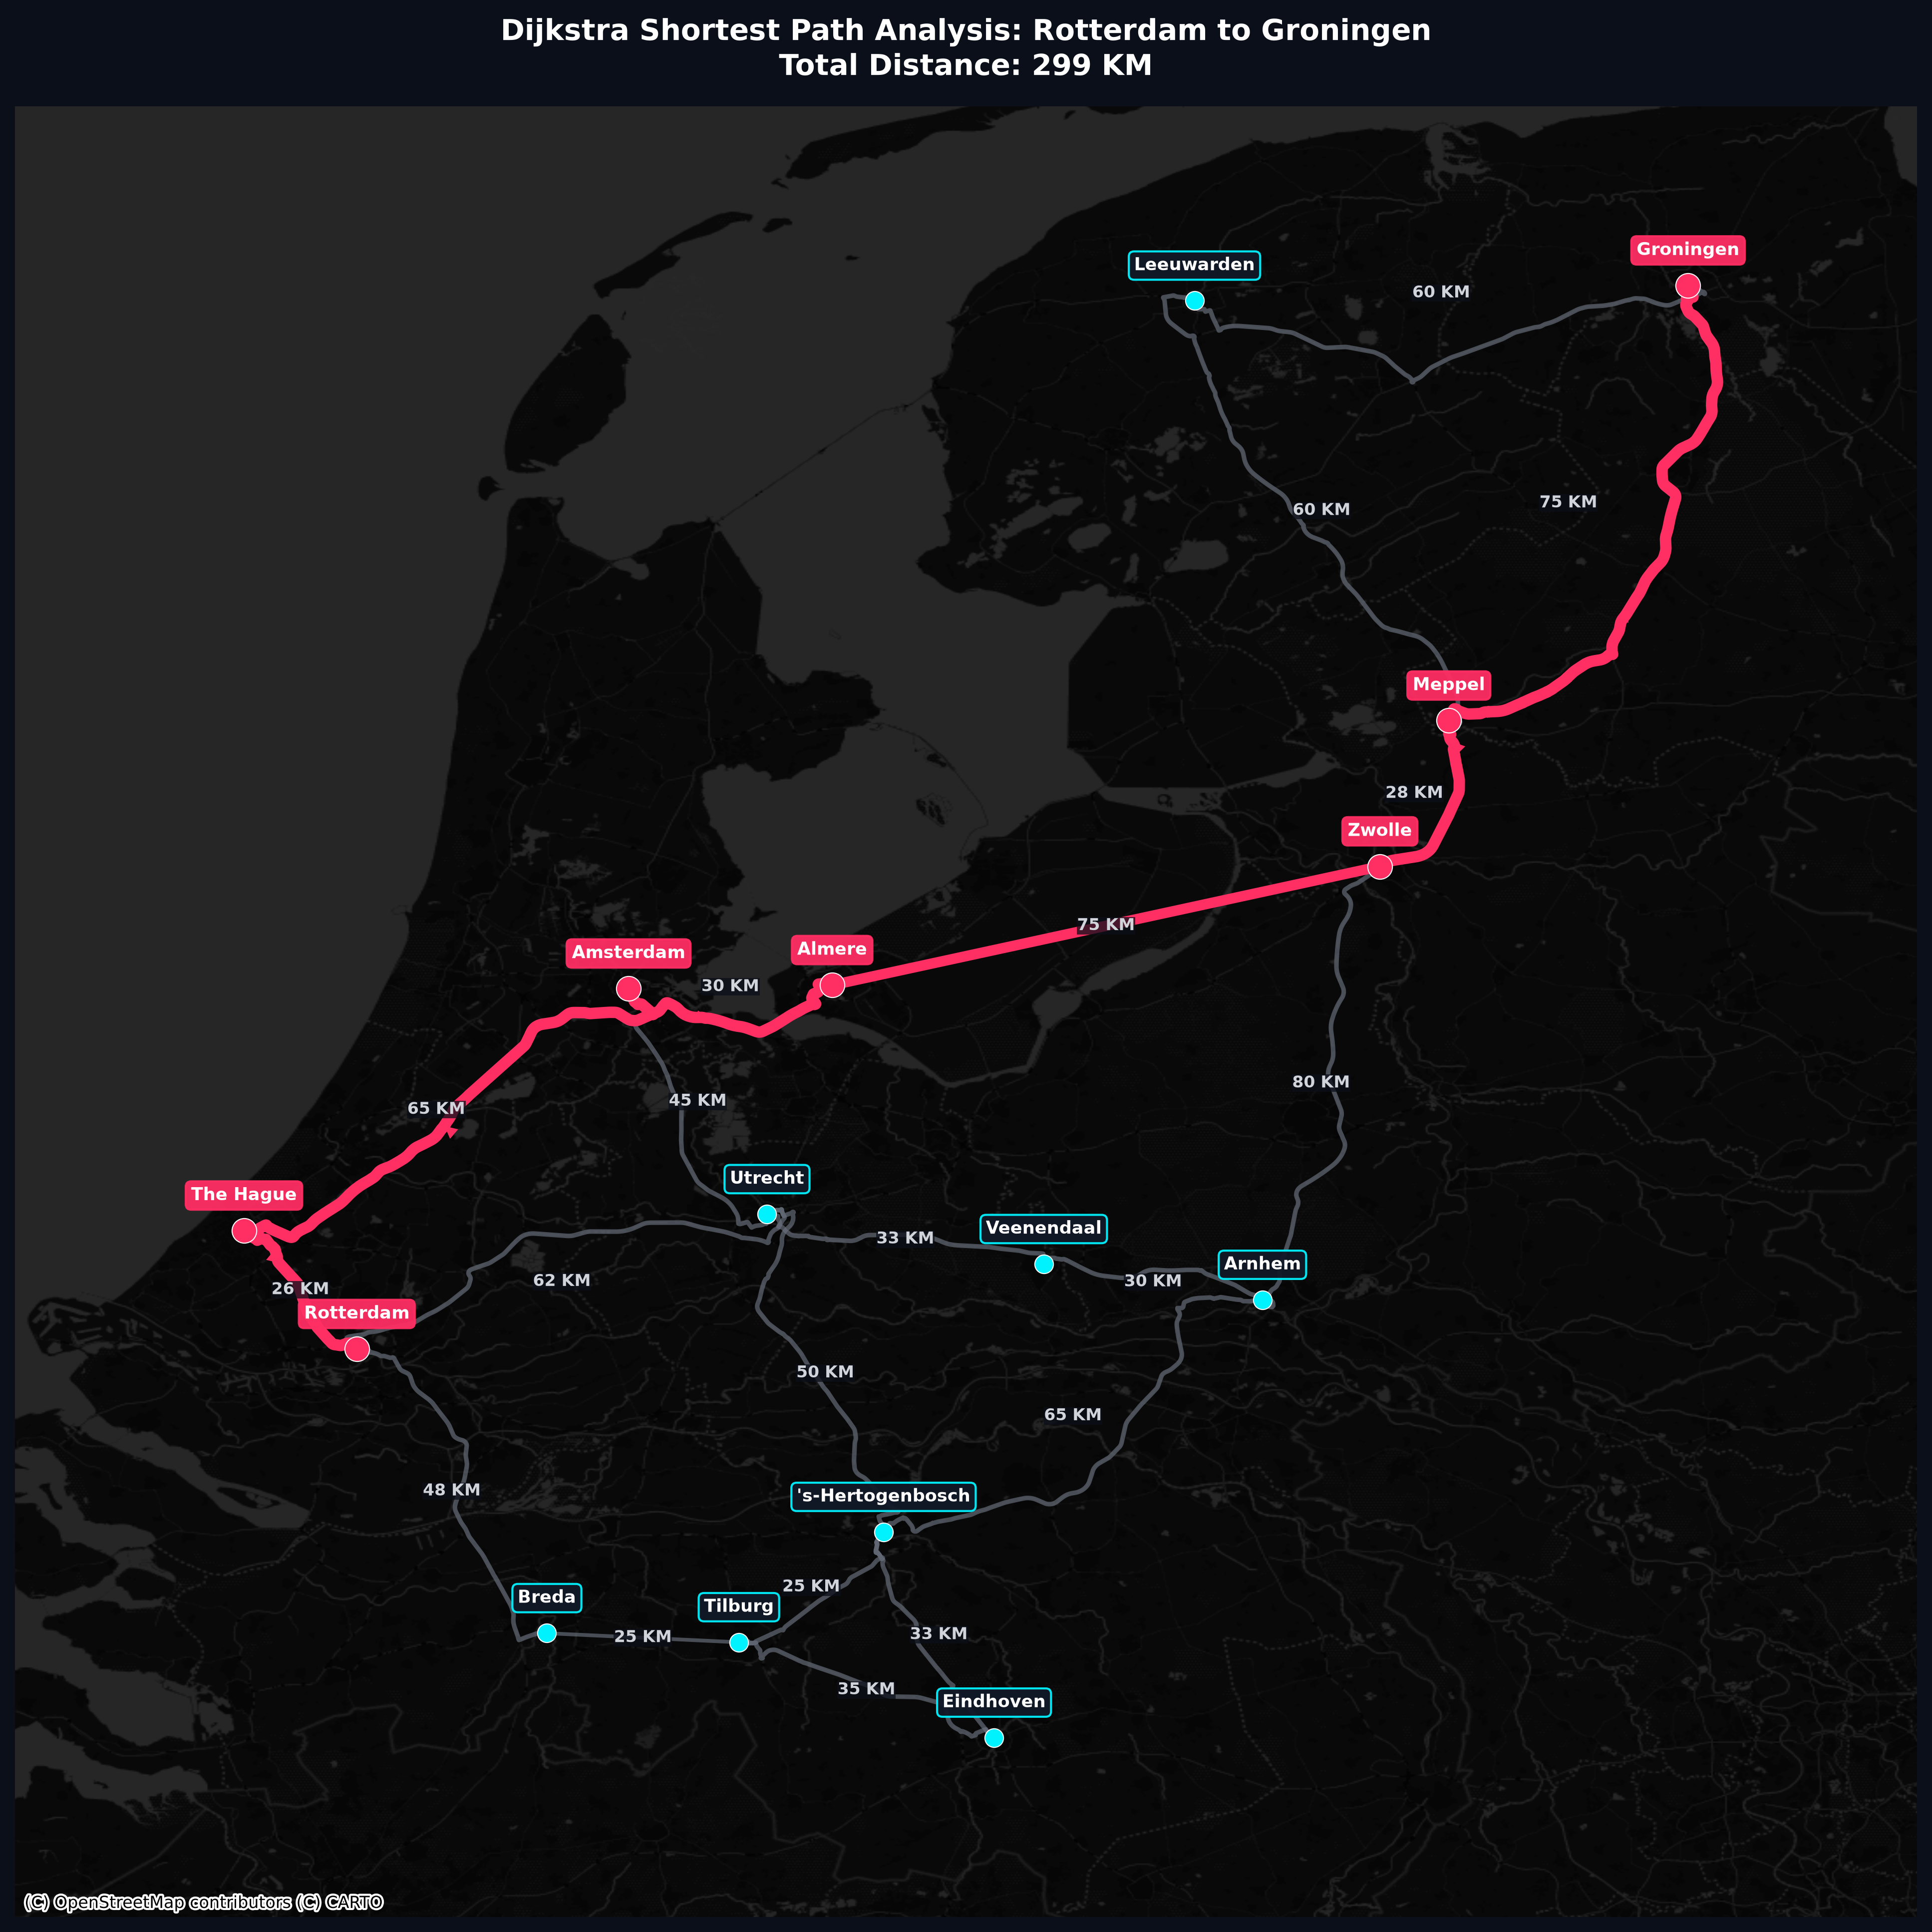
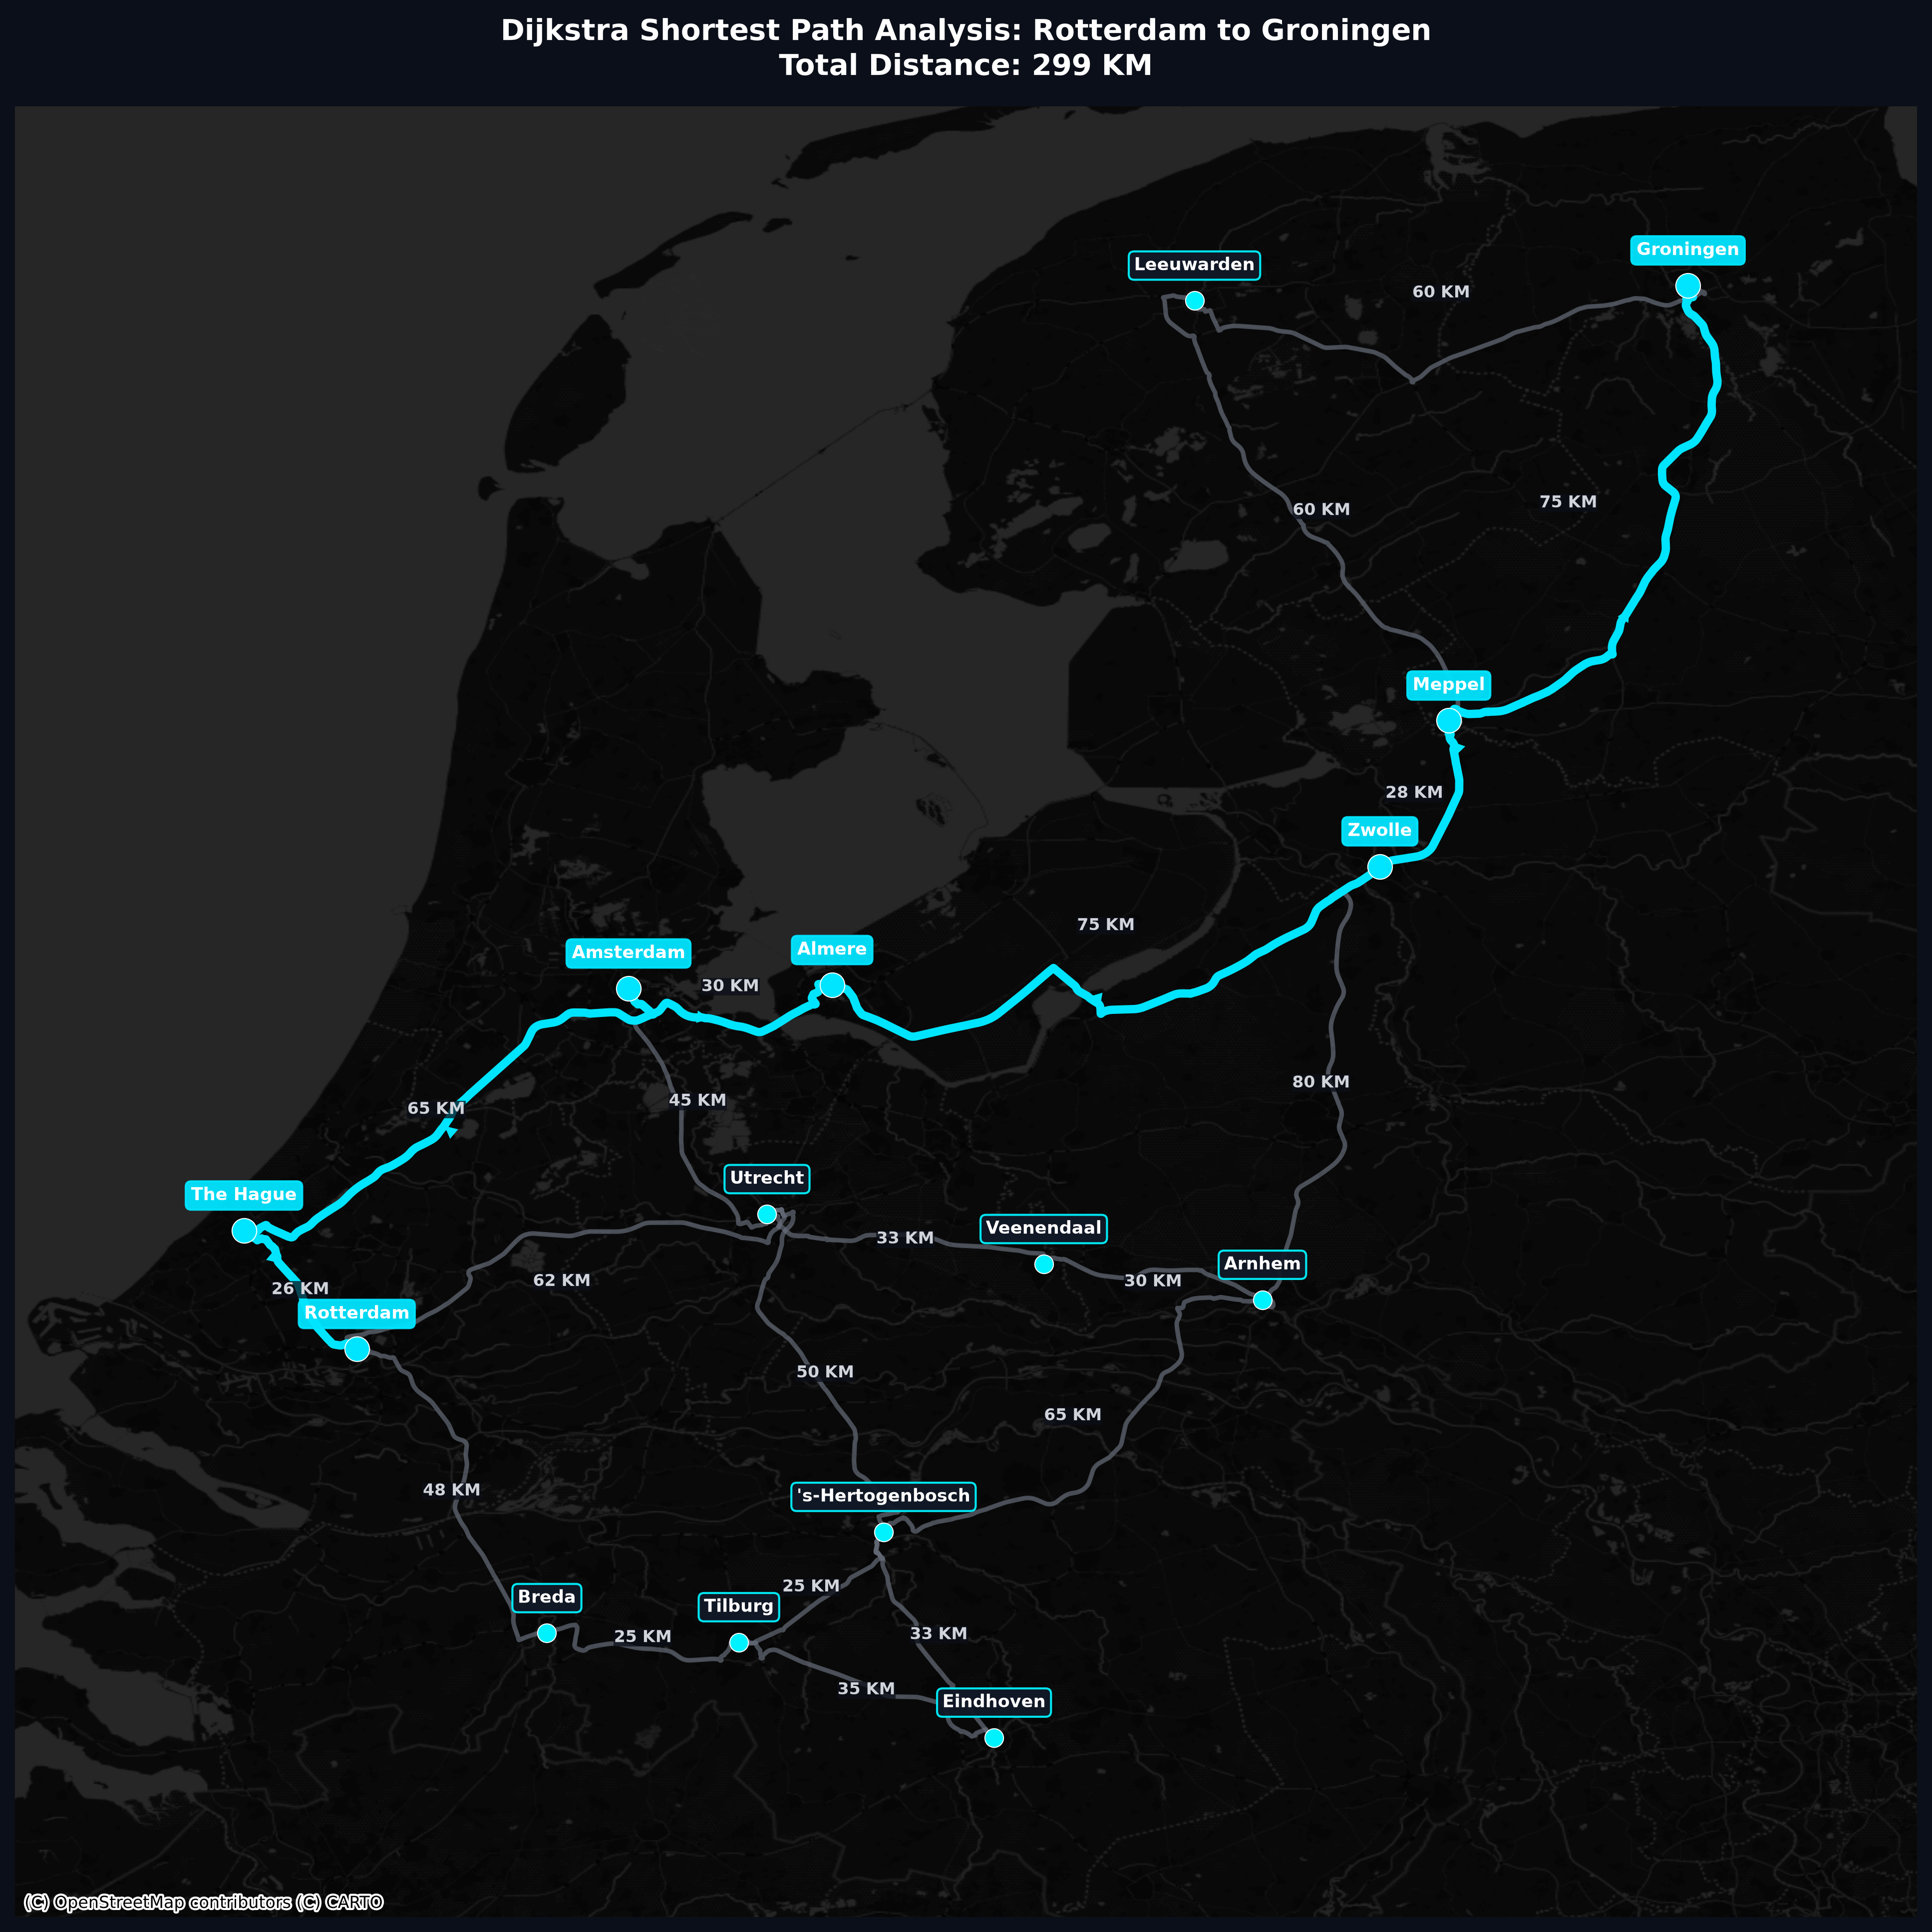
Refactor color scheme in slover.py for path visualization
- Updated path line color from '#ff2e63' to '#00e5ff' for better contrast.
- Adjusted line widths for path edges to enhance visual clarity.
- Changed node color for those on the path to '#00e5ff' to maintain consistency.
- Modified annotation and bounding box colors to match the new color scheme.

diff --git a/slover.py b/slover.py
@@ -72,18 +72,18 @@ for u, v in solved_path_edges:
     cache_key = f"{u}->{v}"
     if cache_key in road_geometries_cache:
         pts = road_geometries_cache[cache_key]
-        ax.plot([p[0] for p in pts], [p[1] for p in pts], color='#ff2e63', linewidth=5.5, alpha=1.0, zorder=2)
+        ax.plot([p[0] for p in pts], [p[1] for p in pts], color='#00e5ff', linewidth=4.0, alpha=1.0, zorder=2)
         mid_idx = len(pts) // 2
         ax.annotate('', xy=(pts[mid_idx+1][0], pts[mid_idx+1][1]), 
                     xytext=(pts[mid_idx][0], pts[mid_idx][1]),
-                    arrowprops=dict(arrowstyle="-|>", color='#ff2e63', lw=0, mutation_scale=15), zorder=2)
+                    arrowprops=dict(arrowstyle="-|>", color='#00e5ff', lw=0, mutation_scale=15), zorder=2)
     else:
-        ax.plot([pos[u][0], pos[v][0]], [pos[u][1], pos[v][1]], color='#ff2e63', linewidth=5.0, zorder=2)
+        ax.plot([pos[u][0], pos[v][0]], [pos[u][1], pos[v][1]], color='#00e5ff', linewidth=3.5, zorder=2)
 
 # Nodes
 for node in G.nodes():
     is_on_path = node in shortest_path_nodes
-    n_color = '#ff2e63' if is_on_path else '#00f2fe'
+    n_color = '#00e5ff' if is_on_path else '#00f2fe'
     n_size = 140 if is_on_path else 80
     ax.scatter(pos[node][0], pos[node][1], color=n_color, s=n_size, alpha=1.0, edgecolors='white', linewidths=0.5, zorder=3)
 
@@ -91,8 +91,8 @@ for node in G.nodes():
 for node, (x, y) in pos.items():
     is_on_path = node in shortest_path_nodes
     ax.text(x, y + 6800, s=node, color='#ffffff', fontsize=8.5, fontweight='bold',
-            bbox=dict(facecolor='#ff2e63' if is_on_path else '#111827', 
-                      edgecolor='#ff2e63' if is_on_path else '#00f2fe', 
+            bbox=dict(facecolor='#00e5ff' if is_on_path else '#111827', 
+                      edgecolor='#00e5ff' if is_on_path else '#00f2fe', 
                       boxstyle='round,pad=0.3', alpha=0.95),
             horizontalalignment='center', zorder=4)
 